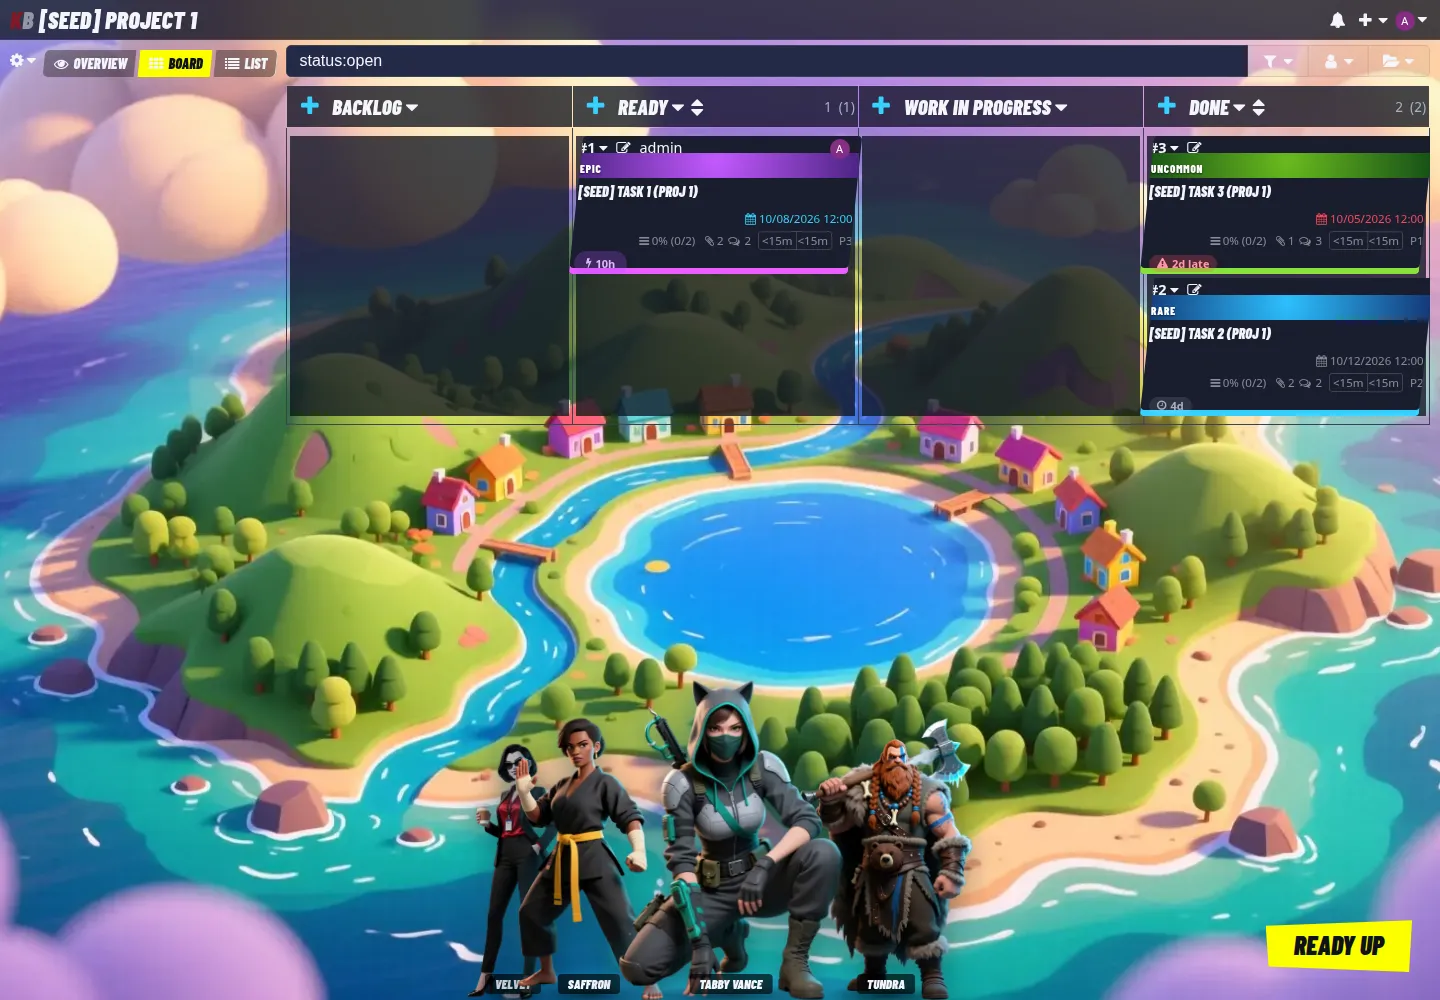
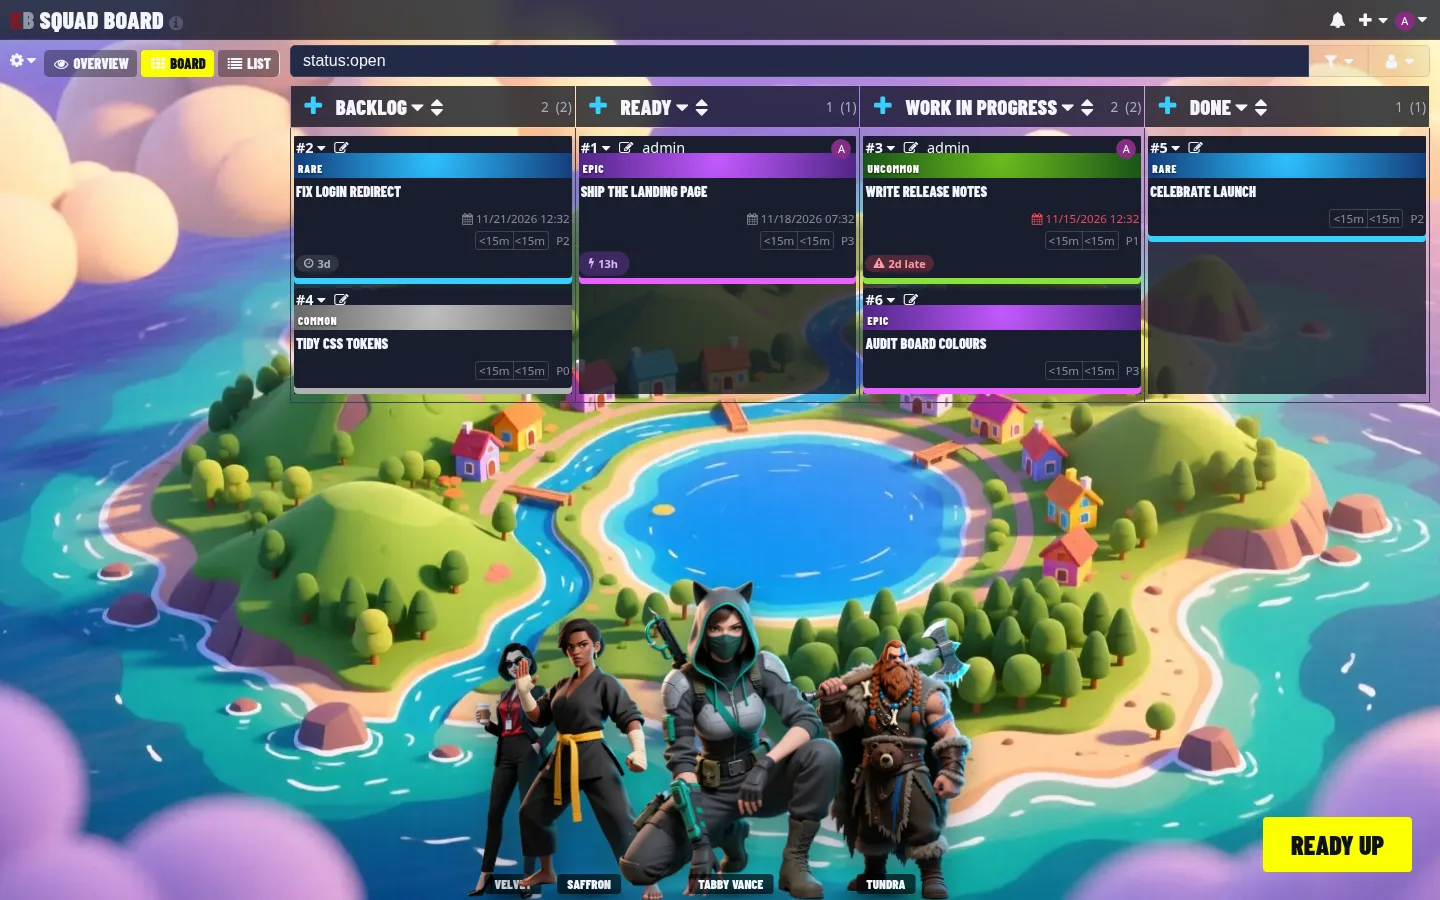
release: 1.1.0

diff --git a/Test/PluginTest.php b/Test/PluginTest.php
@@ -11,7 +11,7 @@ class PluginTest extends Base
     {
         $plugin = new Plugin($this->container);
         $this->assertSame('Battle Lobby', $plugin->getPluginName());
-        $this->assertSame('1.0.0', $plugin->getPluginVersion());
+        $this->assertSame('1.1.0', $plugin->getPluginVersion());
         $this->assertSame('Carmelo Santana', $plugin->getPluginAuthor());
         $this->assertSame('>=1.2.47', $plugin->getCompatibleVersion());
         $this->assertStringContainsString('kanboard-battle-lobby', $plugin->getPluginHomepage());

diff --git a/Test/PluginMetaTest.php b/Test/PluginMetaTest.php
@@ -15,7 +15,7 @@ class PluginMetaTest extends Base
     {
         $j = $this->json();
         $this->assertSame('BattleLobby', $j['name']);
-        $this->assertSame('1.0.0', $j['version']);
+        $this->assertSame('1.1.0', $j['version']);
         $this->assertSame('>=1.2.47', $j['kanboard_version']);
         $this->assertSame('>=8.4', $j['php_version']);
         $this->assertSame('MIT', $j['license']);

diff --git a/Plugin.php b/Plugin.php
@@ -70,7 +70,7 @@ class Plugin extends Base
 
     public function getPluginVersion(): string
     {
-        return '1.0.0';
+        return '1.1.0';
     }
 
     public function getCompatibleVersion(): string

diff --git a/CHANGELOG.md b/CHANGELOG.md
@@ -1,5 +1,13 @@
 # Changelog
 
+## 1.1.0 — 2026-11-17
+
+- Everything sits square: no skewed tabs, cards or loading bar, no slanted buttons, no spinning confetti, no italic display type.
+- Fix: the storm due-date chip was painted over by the card's tier edge.
+- Fix: on phones the fixed character lineup covered a third of the board; it now hides below 640px.
+- Fix: the victory title wrapped onto two lines on phones; it now scales with the viewport.
+- Fix: READY UP gave no feedback on a network error or an expired session; it now shows TRY AGAIN.
+
 ## 1.0.0 — 2026-10-07
 
 - First release: battle-royale lobby theme with original characters, rarity-tier cards, storm due-date chips, READY UP, victory overlay, loading screen, login hero, admin defaults with per-user overrides.
